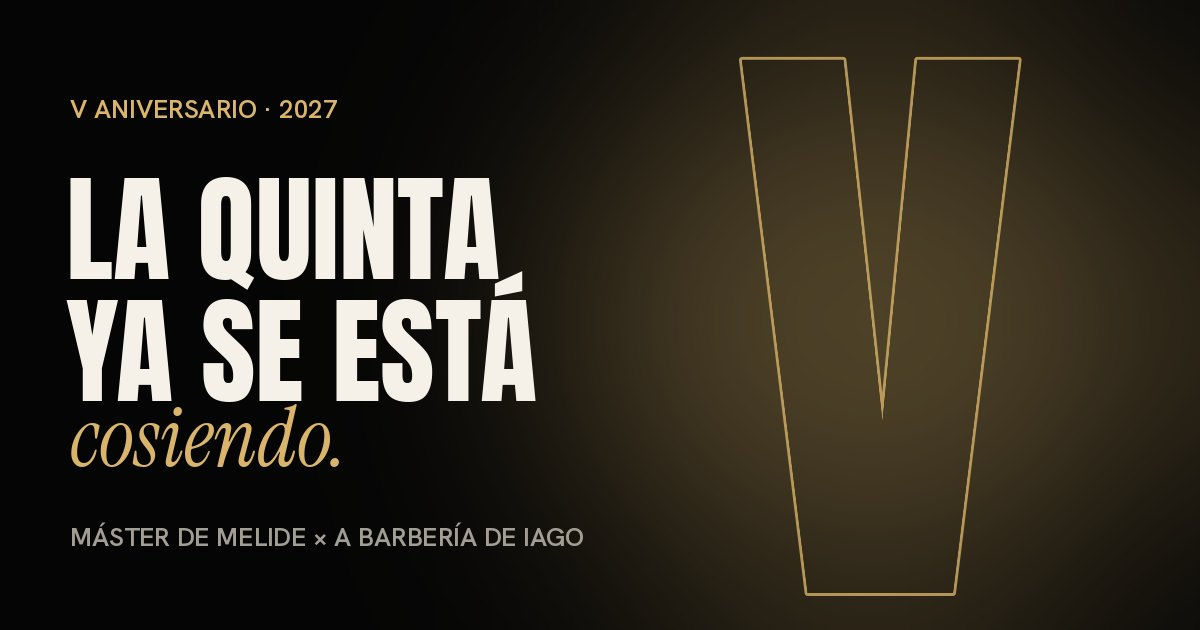
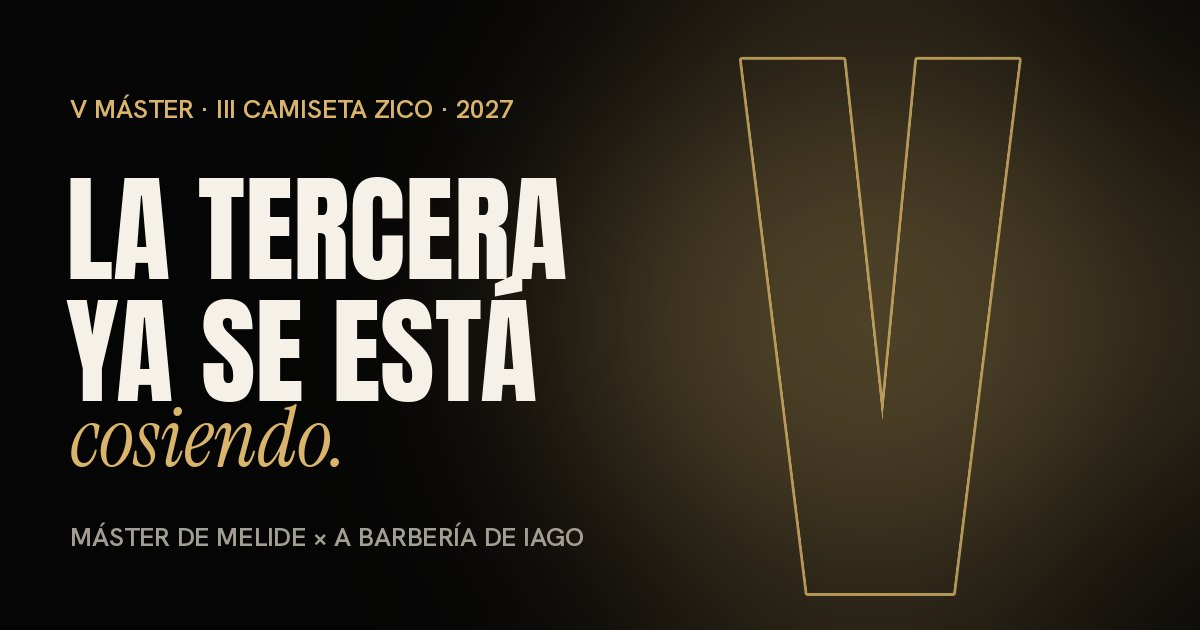
V aniversario: «la tercera» (V Máster, pero III camiseta Zico)
Titular, textos de las tarjetas (1ª, 2ª y 3ª camiseta Zico), ficha e
imagen para compartir.

Claude-Session: https://claude.ai/code/session_011oXRezzkAh4ibTPCHfphMC

Changed region(s): [[0.1542, 0.2714, 0.4933, 0.4524], [0.0617, 0.1508, 0.4317, 0.2111]]

diff --git a/index.html b/index.html
@@ -13,16 +13,16 @@
 <meta property="og:type" content="website">
 <meta property="og:url" content="https://amfmelide.github.io/amf-zico/">
 <meta property="og:title" content="V Aniversario · La camiseta del Máster de Melide 2027">
-<meta property="og:description" content="Cinco años de Máster. Cinco años de A Barbería de Iago. Una camiseta que todavía nadie ha visto.">
-<meta property="og:image" content="https://amfmelide.github.io/amf-zico/og-v.jpg">
+<meta property="og:description" content="Cinco años de Máster. Cinco años de A Barbería de Iago. La III camiseta Zico, que todavía nadie ha visto.">
+<meta property="og:image" content="https://amfmelide.github.io/amf-zico/og-v.jpg?v=3">
 <meta property="og:image:width" content="1200">
 <meta property="og:image:height" content="630">
 <meta property="og:locale" content="es_ES">
 <meta property="og:site_name" content="AMF Melide">
 <meta name="twitter:card" content="summary_large_image">
 <meta name="twitter:title" content="V Aniversario · Máster de Melide 2027">
-<meta name="twitter:description" content="La quinta ya se está cosiendo.">
-<meta name="twitter:image" content="https://amfmelide.github.io/amf-zico/og-v.jpg">
+<meta name="twitter:description" content="La tercera ya se está cosiendo.">
+<meta name="twitter:image" content="https://amfmelide.github.io/amf-zico/og-v.jpg?v=3">
 
 <link rel="icon" type="image/png" sizes="32x32" href="favicon-32.png?v=2">
 <link rel="icon" type="image/png" sizes="192x192" href="favicon-192.png?v=2">
@@ -157,7 +157,7 @@ button{font:inherit;color:inherit;background:none;border:0;cursor:pointer;touch-
 .ed-dots{display:flex;gap:6px;margin-top:14px}
 .ed-dots i{width:16px;height:16px;border-radius:50%;border:1px solid var(--line2)}
 
-/* La quinta: bloqueada */
+/* La tercera: bloqueada */
 .ed-v{border-color:rgba(217,180,106,.45);box-shadow:0 0 0 1px rgba(217,180,106,.15),0 30px 80px -40px rgba(217,180,106,.5)}
 .ed-v .ed-img{display:grid;place-items:center;background:radial-gradient(70% 60% at 50% 45%,rgba(217,180,106,.18),transparent 70%),#0a0907}
 .ed-v .ed-img::after{display:none}
@@ -265,8 +265,8 @@ footer{padding:64px 24px calc(110px + var(--safe-b));text-align:center;border-to
   <div class="bigv" aria-hidden="true">V</div>
   <div class="hero-in">
     <span class="eyebrow enter" style="--i:0">V aniversario · 2027</span>
-    <h1 id="h1" class="display enter" style="--i:1">La <em>quinta</em><br>ya se está<br>cosiendo.</h1>
-    <p class="lead enter" style="--i:2">Cinco años de <strong>Máster de Melide</strong>. Cinco años de <strong>A Barbería de Iago</strong>. Una camiseta que, de momento, no ha visto nadie.</p>
+    <h1 id="h1" class="display enter" style="--i:1">La <em>tercera</em><br>ya se está<br>cosiendo.</h1>
+    <p class="lead enter" style="--i:2">Cinco años de <strong>Máster de Melide</strong>. Cinco años de <strong>A Barbería de Iago</strong>. La <strong>III camiseta Zico</strong> que, de momento, no ha visto nadie.</p>
     <div class="count enter" style="--i:3" id="count" aria-label="Cuenta atrás para el V Máster de Melide">
       <div><b id="cD">—</b><span>días</span></div>
       <div><b id="cH">—</b><span>horas</span></div>
@@ -313,7 +313,7 @@ footer{padding:64px 24px calc(110px + var(--safe-b));text-align:center;border-to
         </div>
         <div class="ed-body">
           <h3>III Máster · 2025</h3>
-          <p>Negra a rayas, cuello crema. «Septiembre 2025».</p>
+          <p>1ª camiseta Zico. Negra a rayas, cuello crema.</p>
           <div class="ed-dots" aria-hidden="true"><i style="background:#1d1f22"></i><i style="background:#3a3d42"></i><i style="background:#e8d9c4"></i></div>
         </div>
       </article>
@@ -328,7 +328,7 @@ footer{padding:64px 24px calc(110px + var(--safe-b));text-align:center;border-to
         </div>
         <div class="ed-body">
           <h3>IV Máster · 2026</h3>
-          <p>Polo Zico verde y negro, cuatro estrellas.</p>
+          <p>2ª camiseta Zico. Verde y negra, cuatro estrellas.</p>
           <div class="ed-dots" aria-hidden="true"><i style="background:#16734a"></i><i style="background:#1d2a3a"></i><i style="background:#e9efe9"></i></div>
         </div>
       </article>
@@ -342,7 +342,7 @@ footer{padding:64px 24px calc(110px + var(--safe-b));text-align:center;border-to
         </div>
         <div class="ed-body">
           <h3>V Máster · 2027</h3>
-          <p>Edición aniversario. Color: <span class="redact" style="width:70px"></span></p>
+          <p>3ª camiseta Zico. Color: <span class="redact" style="width:70px"></span></p>
           <div class="ed-dots" aria-hidden="true"><i></i><i></i><i></i></div>
         </div>
       </article>
@@ -408,7 +408,7 @@ footer{padding:64px 24px calc(110px + var(--safe-b));text-align:center;border-to
       <div><span>Edición</span><b class="g">V aniversario</b></div>
       <div><span>Evento</span><b>V Máster de Melide · 2027</b></div>
       <div><span>Con</span><b>A Barbería de Iago</b></div>
-      <div><span>Modelo</span><b>Polo Zico</b></div>
+      <div><span>Modelo</span><b>III camiseta Zico</b></div>
       <div><span>Color</span><b><span class="redact" aria-label="secreto"></span></b></div>
       <div><span>Diseño</span><b><span class="redact" aria-label="secreto"></span></b></div>
       <div><span>Unidades</span><b>Solo las que se reserven</b></div>
